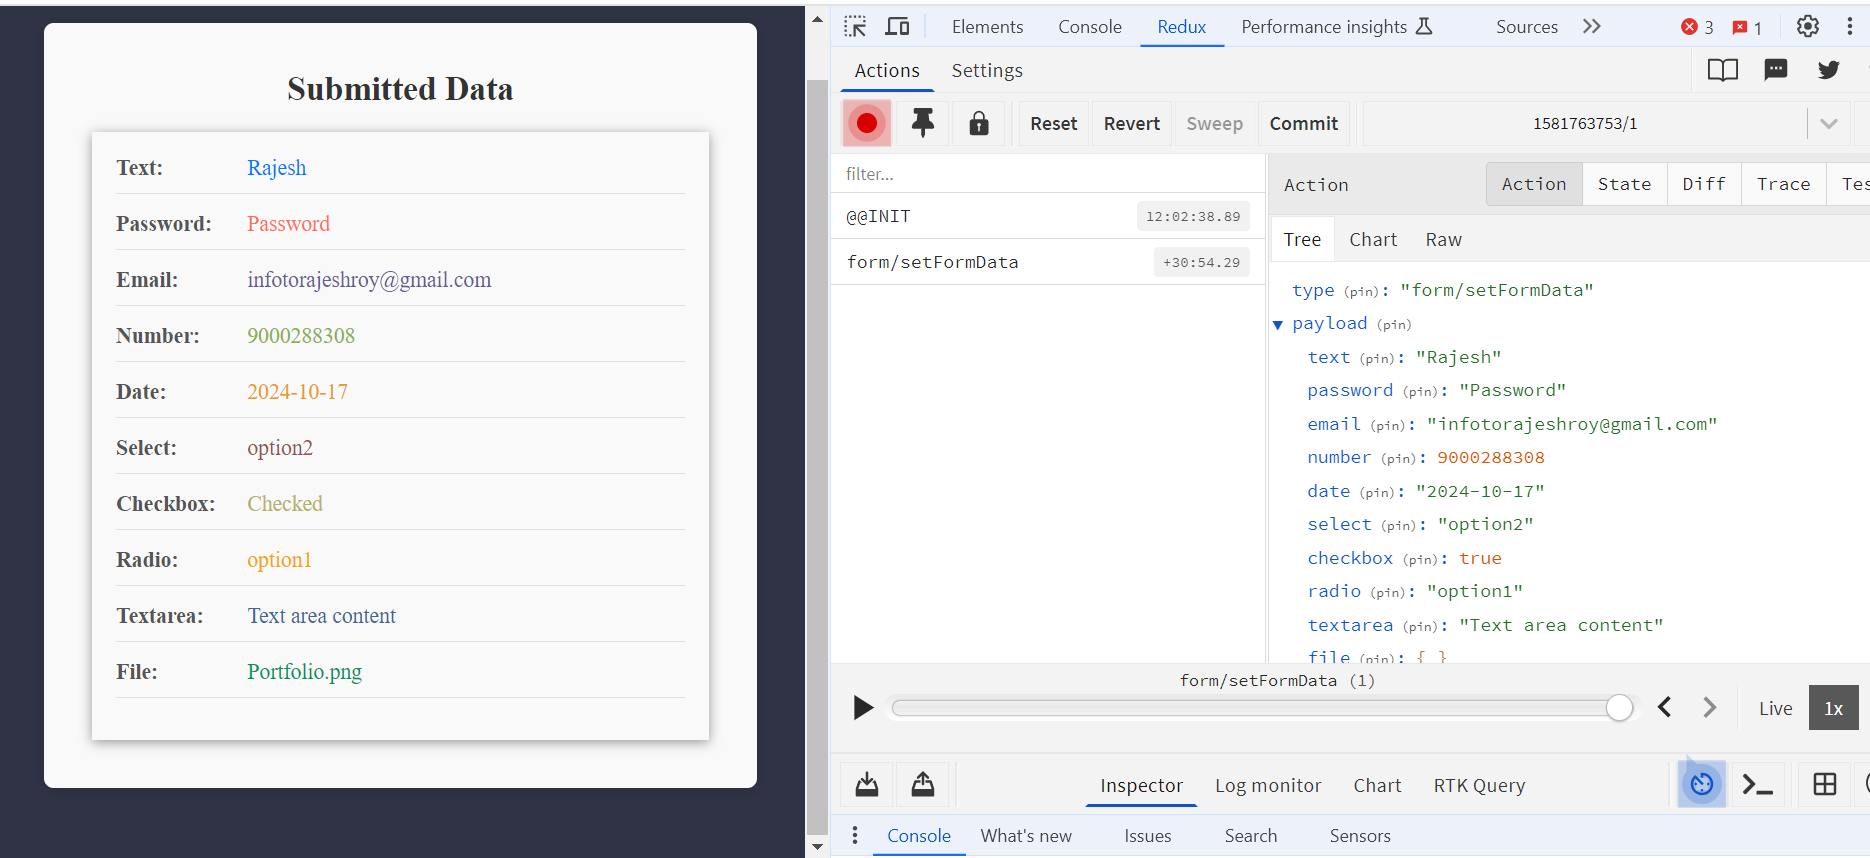
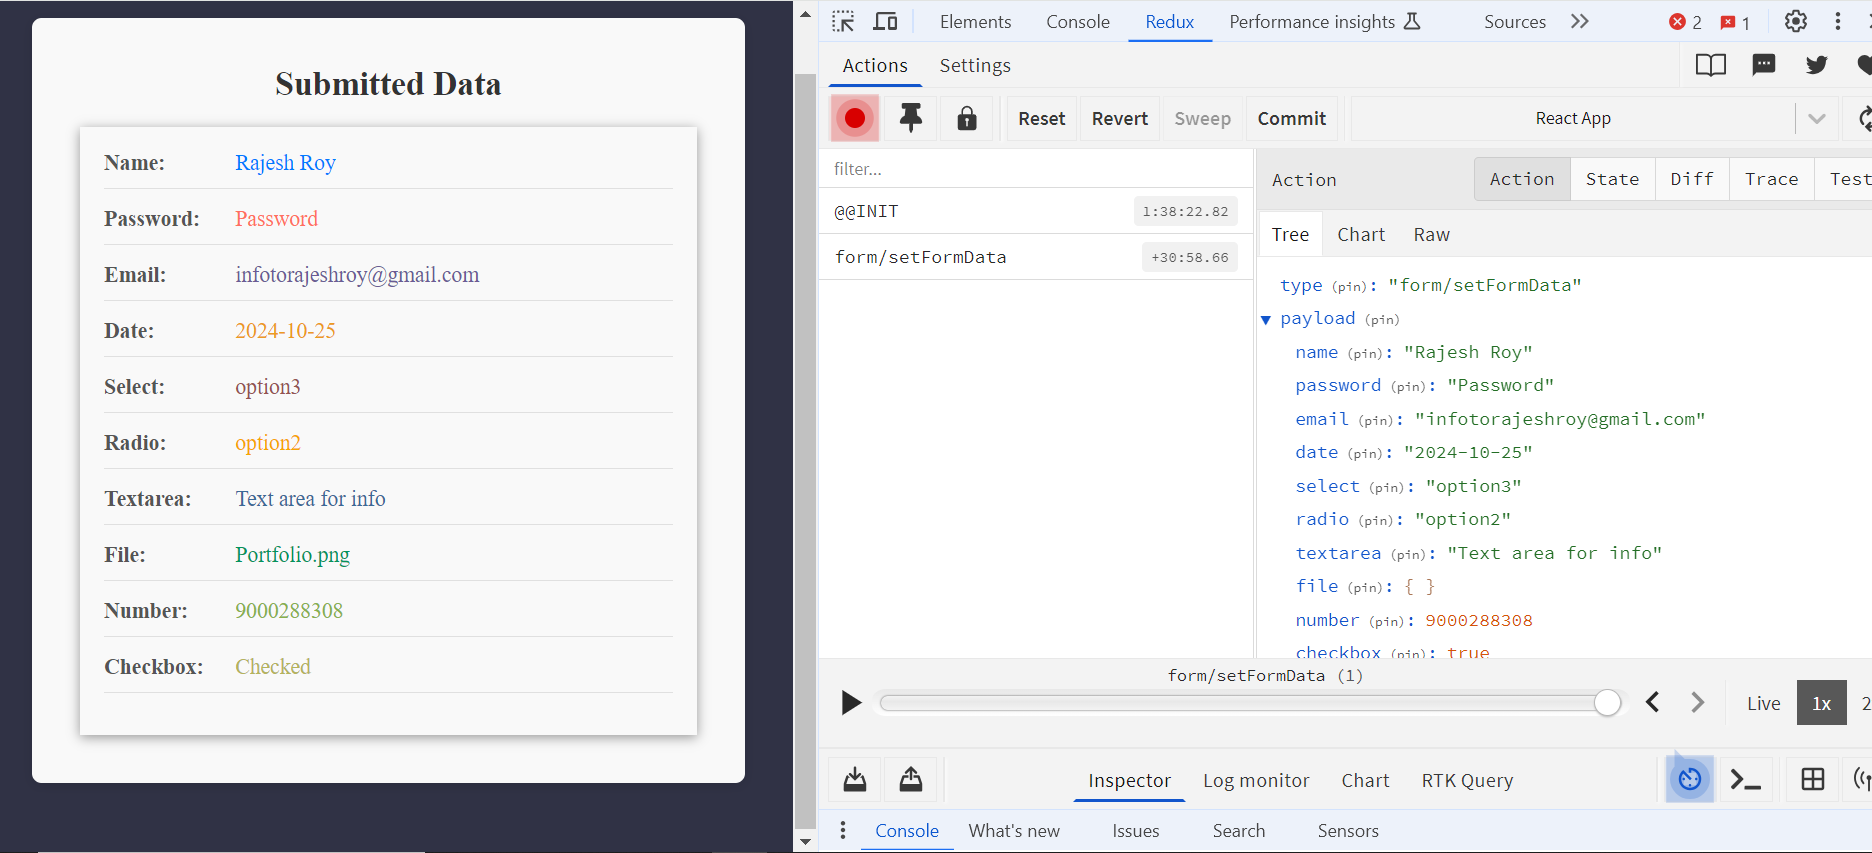
images update

diff --git a/src/components/FormComponent.tsx b/src/components/FormComponent.tsx
@@ -17,7 +17,7 @@ interface Errors {
 }
 
 const FormComponent: React.FC = () => {
-  const [text, setText] = useState("");
+  const [name, setName] = useState("");
   const [password, setPassword] = useState("");
   const [email, setEmail] = useState("");
   const [number, setNumber] = useState(0);
@@ -39,7 +39,7 @@ const FormComponent: React.FC = () => {
     const newErrors: Errors = {};
 
     // Validation checks
-    if (!text.trim()) newErrors.text = "Full name is required";
+    if (!name.trim()) newErrors.text = "Full name is required";
     if (!password.trim()) newErrors.password = "Password is required";
     if (!email.includes("@")) newErrors.email = "Valid email is required";
     if (number <= 0) newErrors.number = "Please enter Phone number";
@@ -56,16 +56,16 @@ const FormComponent: React.FC = () => {
     }
 
     const formData = {
-      text,
+      name,
       password,
       email,
-      number,
       date,
       select,
-      checkbox,
       radio,
       textarea,
       file,
+      number,
+      checkbox,
     };
 
     dispatch(setFormData(formData));
@@ -89,8 +89,8 @@ const FormComponent: React.FC = () => {
               id="textInput"
               type="text"
               placeholder="Full Name"
-              value={text}
-              onChange={(e) => setText(e.target.value)}
+              value={name}
+              onChange={(e) => setName(e.target.value)}
             />
             {errors.text && <p className="error">{errors.text}</p>}
           </div>
@@ -154,36 +154,32 @@ const FormComponent: React.FC = () => {
               {errors.select && <p className="error">{errors.select}</p>}
             </div>
 
-
             <div className="form-group  gender-err">
-
-            <div className="gender">
-              <label>Gender:</label>
-              <div className="radio-group">
-                <input
-                  id="radioOption1"
-                  type="radio"
-                  value="option1"
-                  checked={radio === "option1"}
-                  onChange={(e) => setRadio(e.target.value)}
-                />
-                <label htmlFor="radioOption1">Option 1</label>
-                <input
-                  id="radioOption2"
-                  type="radio"
-                  value="option2"
-                  checked={radio === "option2"}
-                  onChange={(e) => setRadio(e.target.value)}
-                />
-                <label htmlFor="radioOption2">Option 2</label>
+              <div className="gender">
+                <label>Gender:</label>
+                <div className="radio-group">
+                  <input
+                    id="radioOption1"
+                    type="radio"
+                    value="option1"
+                    checked={radio === "option1"}
+                    onChange={(e) => setRadio(e.target.value)}
+                  />
+                  <label htmlFor="radioOption1">Option 1</label>
+                  <input
+                    id="radioOption2"
+                    type="radio"
+                    value="option2"
+                    checked={radio === "option2"}
+                    onChange={(e) => setRadio(e.target.value)}
+                  />
+                  <label htmlFor="radioOption2">Option 2</label>
+                </div>
               </div>
-
+              <div>
+                {errors.radio && <p className="error">{errors.radio}</p>}
               </div>
-              <div>{errors.radio && <p className="error">{errors.radio}</p>}</div>
-              
             </div>
-
-
           </div>
         </div>
 

diff --git a/src/components/DisplayComponent.tsx b/src/components/DisplayComponent.tsx
@@ -6,11 +6,11 @@ const DisplayComponent: React.FC = () => {
   const formData = useSelector((state: RootState) => state.form.formData);
   return (
     <div className="data-container">
-        <h1 className="data-header">Submitted Data</h1>
+      <h1 className="data-header">Submitted Data</h1>
       <div className="data-form">
         <div className="data-field">
-          <p className="data-label">Text:</p>
-          <p className="data-value text-value">{formData.text}</p>
+          <p className="data-label">Name:</p>
+          <p className="data-value text-value">{formData.name}</p>
         </div>
         <div className="data-field">
           <p className="data-label">Password:</p>
@@ -21,10 +21,6 @@ const DisplayComponent: React.FC = () => {
           <p className="data-value email-value">{formData.email}</p>
         </div>
         <div className="data-field">
-          <p className="data-label">Number:</p>
-          <p className="data-value number-value">{formData.number}</p>
-        </div>
-        <div className="data-field">
           <p className="data-label">Date:</p>
           <p className="data-value date-value">{formData.date}</p>
         </div>
@@ -32,12 +28,7 @@ const DisplayComponent: React.FC = () => {
           <p className="data-label">Select:</p>
           <p className="data-value select-value">{formData.select}</p>
         </div>
-        <div className="data-field">
-          <p className="data-label checkbox-label">Checkbox:</p>
-          <p className="data-value checkbox-value">
-            {formData.checkbox ? "Checked" : "Unchecked"}
-          </p>
-        </div>
+
         <div className="data-field">
           <p className="data-label radio-label">Radio:</p>
           <p className="data-value radio-value">{formData.radio}</p>
@@ -50,6 +41,16 @@ const DisplayComponent: React.FC = () => {
           <p className="data-label file-label">File:</p>
           <p className="data-value file-value">
             {formData.file ? formData.file.name : "No file uploaded"}
+          </p>
+        </div>
+        <div className="data-field">
+          <p className="data-label">Number:</p>
+          <p className="data-value number-value">{formData.number}</p>
+        </div>
+        <div className="data-field">
+          <p className="data-label checkbox-label">Checkbox:</p>
+          <p className="data-value checkbox-value">
+            {formData.checkbox ? "Checked" : "Unchecked"}
           </p>
         </div>
       </div>

diff --git a/src/redux/formSlice.ts b/src/redux/formSlice.ts
@@ -1,7 +1,7 @@
 import { createSlice, PayloadAction } from "@reduxjs/toolkit";
 
 interface FormData {
-  text: string;
+  name: string;
   password: string;
   email: string;
   number: number;
@@ -19,16 +19,16 @@ interface FormSliceState {
 
 const initialState: FormSliceState = {
   formData: {
-    text: '',
+    name: '',
     password: '',
-    email: '',
-    number: 0,
+    email: '',    
     date: '',
-    select: '',
-    checkbox: false,
+    select: '',    
     radio: '',
     textarea: '',
     file: null,
+    number: 0,
+    checkbox: false,
   },
 };
 
